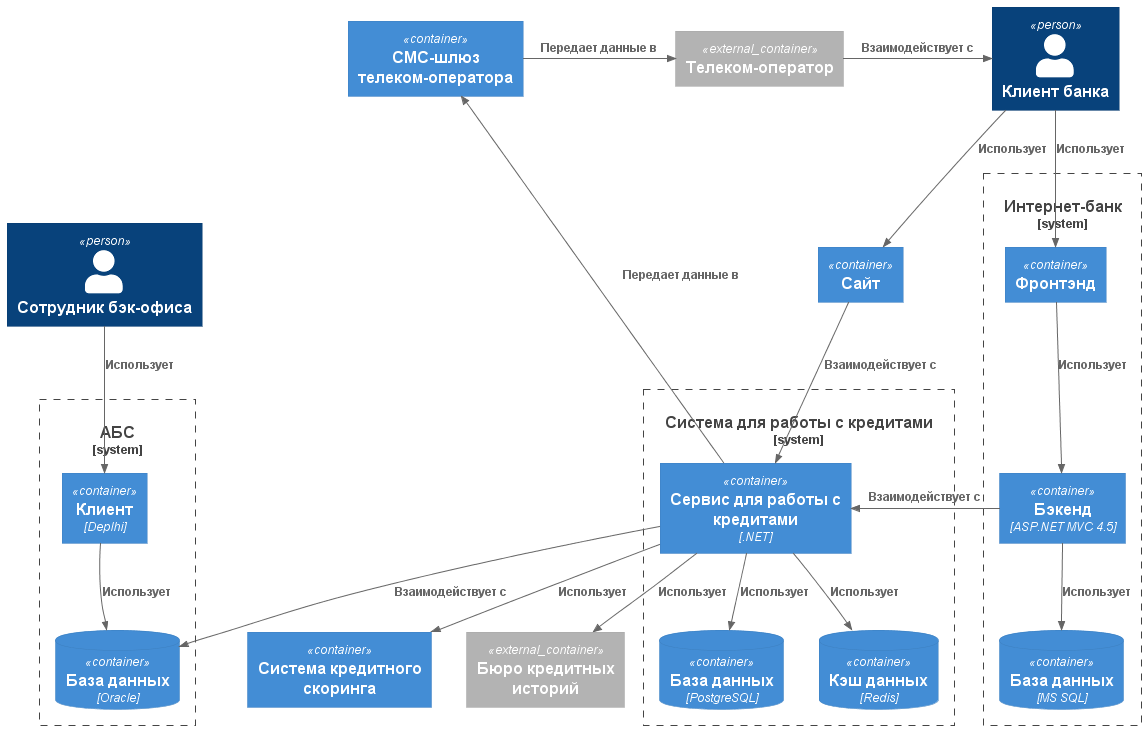
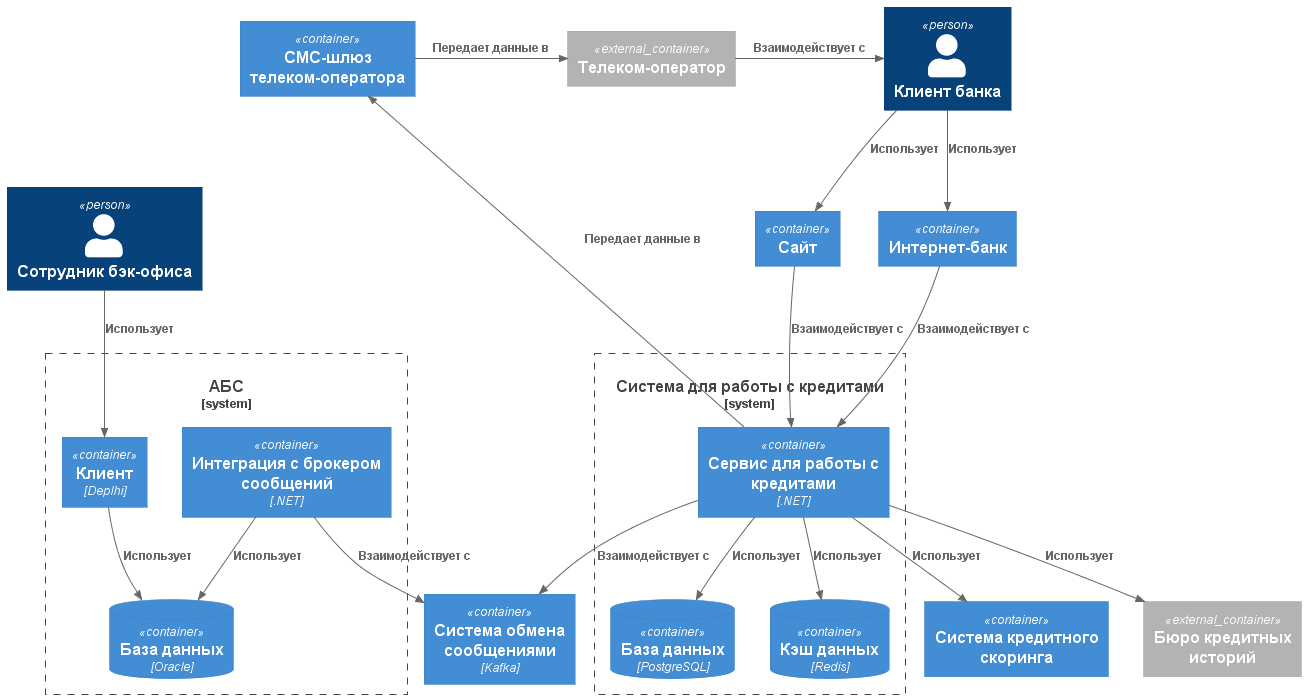
Дополнение 5 задания. Изменение схем 3 и 4 заданий.

diff --git a/Task5/README.md b/Task5/README.md
@@ -16,6 +16,9 @@
 | S1  | Использование существующих технологий банка |
 | +R1 | Запрет на прямое взаимодействие интернет-банка с АБС |
 | +R2 | Требуется шифрование при передаче персональных и платежных данных |
+| +R3 | При необходимости асинхронного взаимодействия - использовать Kafka |
+| +R4 | Обработка отказов Kafka |
+| +R5 | Защита от DDoS и других сетевых атак |
 
 ### <a name="_qmphm5d6rvi3"></a>**Решение**
 
@@ -39,14 +42,69 @@
 - Отдельную базу данных.
 - Отдельный кэш для снижения нагрузки.
 
-В архитектуре выбран сервисный подход.
+### **Стратегия кэширования**
 
-### <a name="_bjrr7veeh80c"></a>**Альтернативы**
+Для оптимизации производительности используется многоуровневое кэширование:
 
-Реализовать функционал в существующих системах.
-Производить общение напрямую с АБС.
+- **Кэширование справочников**: Условия кредитования, процентные ставки кэшируются в Redis с TTL 1 час.
+- **Кэширование профилей клиентов**: Базовые данные клиента кэшируются для ускорения обработки заявок.
+- **Кэширование результатов скоринга**: Результаты скорингового анализа сохраняются в Redis для избежания повторных запросов.
 
-**Недостатки, ограничения, риски**
+### **Инвалидация кэша**
 
-- Рост сложности системы за счет ввода новых сервисов.
-- Риск перегрузки АБС из-за синхронного варианта взаимодействия.
+Стратегия инвалидации:
+
+- **TTL-инвалидация**: Автоматическое истечение кэша по времени жизни.
+- **Явная инвалидация**: При одобрении/отказе заявки все связанные кэши очищаются.
+
+**Интеграция со скорингом и БКИ**
+
+Система интегрирована с внешними сервисами:
+
+- **Сервис скоринга**: Сервис кредитов отправляет запрос на скоринг с данными клиента, получает рейтинг.
+- **БКИ (Бюро Кредитных Историй)**: Запрос к БКИ выполняется для получения истории задолженностей.
+- **Кэширование результатов**: Результаты скоринга кэшируются для снижения нагрузки на внешние системы.
+
+**Безопасность персональных данных**
+
+Реализованы многоуровневые меры защиты:
+
+- **Шифрование в пути**: TLS 1.3 для всех каналов передачи, особенно при передаче ПД и платежных данных (требование +R2).
+- **Шифрование в покое**: Чувствительные данные шифруются в БД.
+- **Разделение доступа**: Отдельная БД для кредитов изолирует ПД от других систем.
+- **Маскирование в логах**: Все логирование ПД исключено или замаскировано.
+
+**Обработка нагрузки**
+
+Архитектура спроектирована на масштабируемость:
+
+- **Горизонтальное масштабирование**: Сервис кредитов развертывается на нескольких инстансах за балансировщиком.
+- **Кэширование нагрузки**: Кэш снижает нагрузку на БД и внешние сервисы на 70-80%.
+- **Rate limiting**: API сервиса ограничивает количество запросов для защиты от DDoS и злоупотреблений.
+- **Изоляция**: Отдельная БД и кэш изолируют нагрузку от других систем банка.
+
+**Альтернативы**
+
+| № | Альтернатива | Описание | Достоинства | Недостатки |
+|---|---|---|---|---|
+| 1 | Встроить функционал в Интернет-банк | Добавить логику работы с кредитами непосредственно в существующее приложение Интернет-банка | • Минимум компонентов<br>• Нет задержек на координацию между сервисами | • Рост сложности Интернет-банка<br>• Сложнее тестировать<br>• Сложнее масштабировать |
+| 2 | Прямое синхронное взаимодействие сервиса с АБС | Сервис напрямую обращается к API/БД АБС для получения данных депозитов | • Минимум компонентов<br>• Простая реализация | • Риск перегрузки АБС<br>• Нарушает требование +R1<br>• Сложнее обеспечить отказоустойчивость<br>• Нет буферизации при сбоях АБС |
+| 3 | Интеграция с помощью Kafka | Полностью асинхронная архитектура на базе Kafka для всех операций | • Максимальная масштабируемость и отказоустойчивость | • Усложнение логики обработки<br>• Сложность отладки |
+
+**Недостатки:**
+- Рост сложности системы за счет ввода новых сервисов и компонентов (отдельная БД, Redis).
+- Необходимость обучения команды работе с выбранными технологиями.
+- Увеличение операционных расходов на поддержку и мониторинг дополнительных компонентов.
+
+**Ограничения:**
+- Интеграция с Kafka возможна только для асинхронных операций, синхронные операции остаются уязвимы к перегрузкам.
+- TTL кэша (1 час) может привести к выдаче устаревших данных о ставках в периоды частых изменений.
+- Шифрование в БД добавляет вычислительную нагрузку и усложняет поиск по данным.
+- Rate limiting на API может привести к отклонению легитимных запросов в периоды высокой активности.
+- Изоляция на уровне БД требует синхронизации данных между системами.
+
+**Риски:**
+- **Точка отказа**: Отказ сервиса скоринга или БКИ блокирует обработку заявок.
+- **Риск несогласованности данных** между кэшем и БД при сбое инвалидации кэша.
+- **Безопасность ключей шифрования**: Необходимо надежное управление и хранение ключей.
+- **Задержки в интеграции с БКИ**: Внешняя система может быть недоступна, требуется кэширование.

diff --git a/Task4/README.md b/Task4/README.md
@@ -57,7 +57,7 @@
 
 ### <a name="_bjrr7veeh80c"></a>**Альтернативы**
 
-| Альтернатива | Описание | Преимущества | Недостатки |
+| Альтернатива | Описание | Достоинства | Недостатки |
 | :- | :- | :- | :- |
 | Прямой API | Разработать REST API для получения информации оператором партнерского кол-центра (по аналогии с собственным кол-центром) | Реал-тайм передача данных; лучше масштабируемость | Требует дополнительной разработки и поддержки; выше сложность интеграции для партнера |
 | FTP/SFTP сервер | Организовать собственный FTP/SFTP сервер для передачи файлов | Полный контроль; широкая поддержка клиентами | Требует управления сервером; сложнее масштабировать; снижение безопасности |
